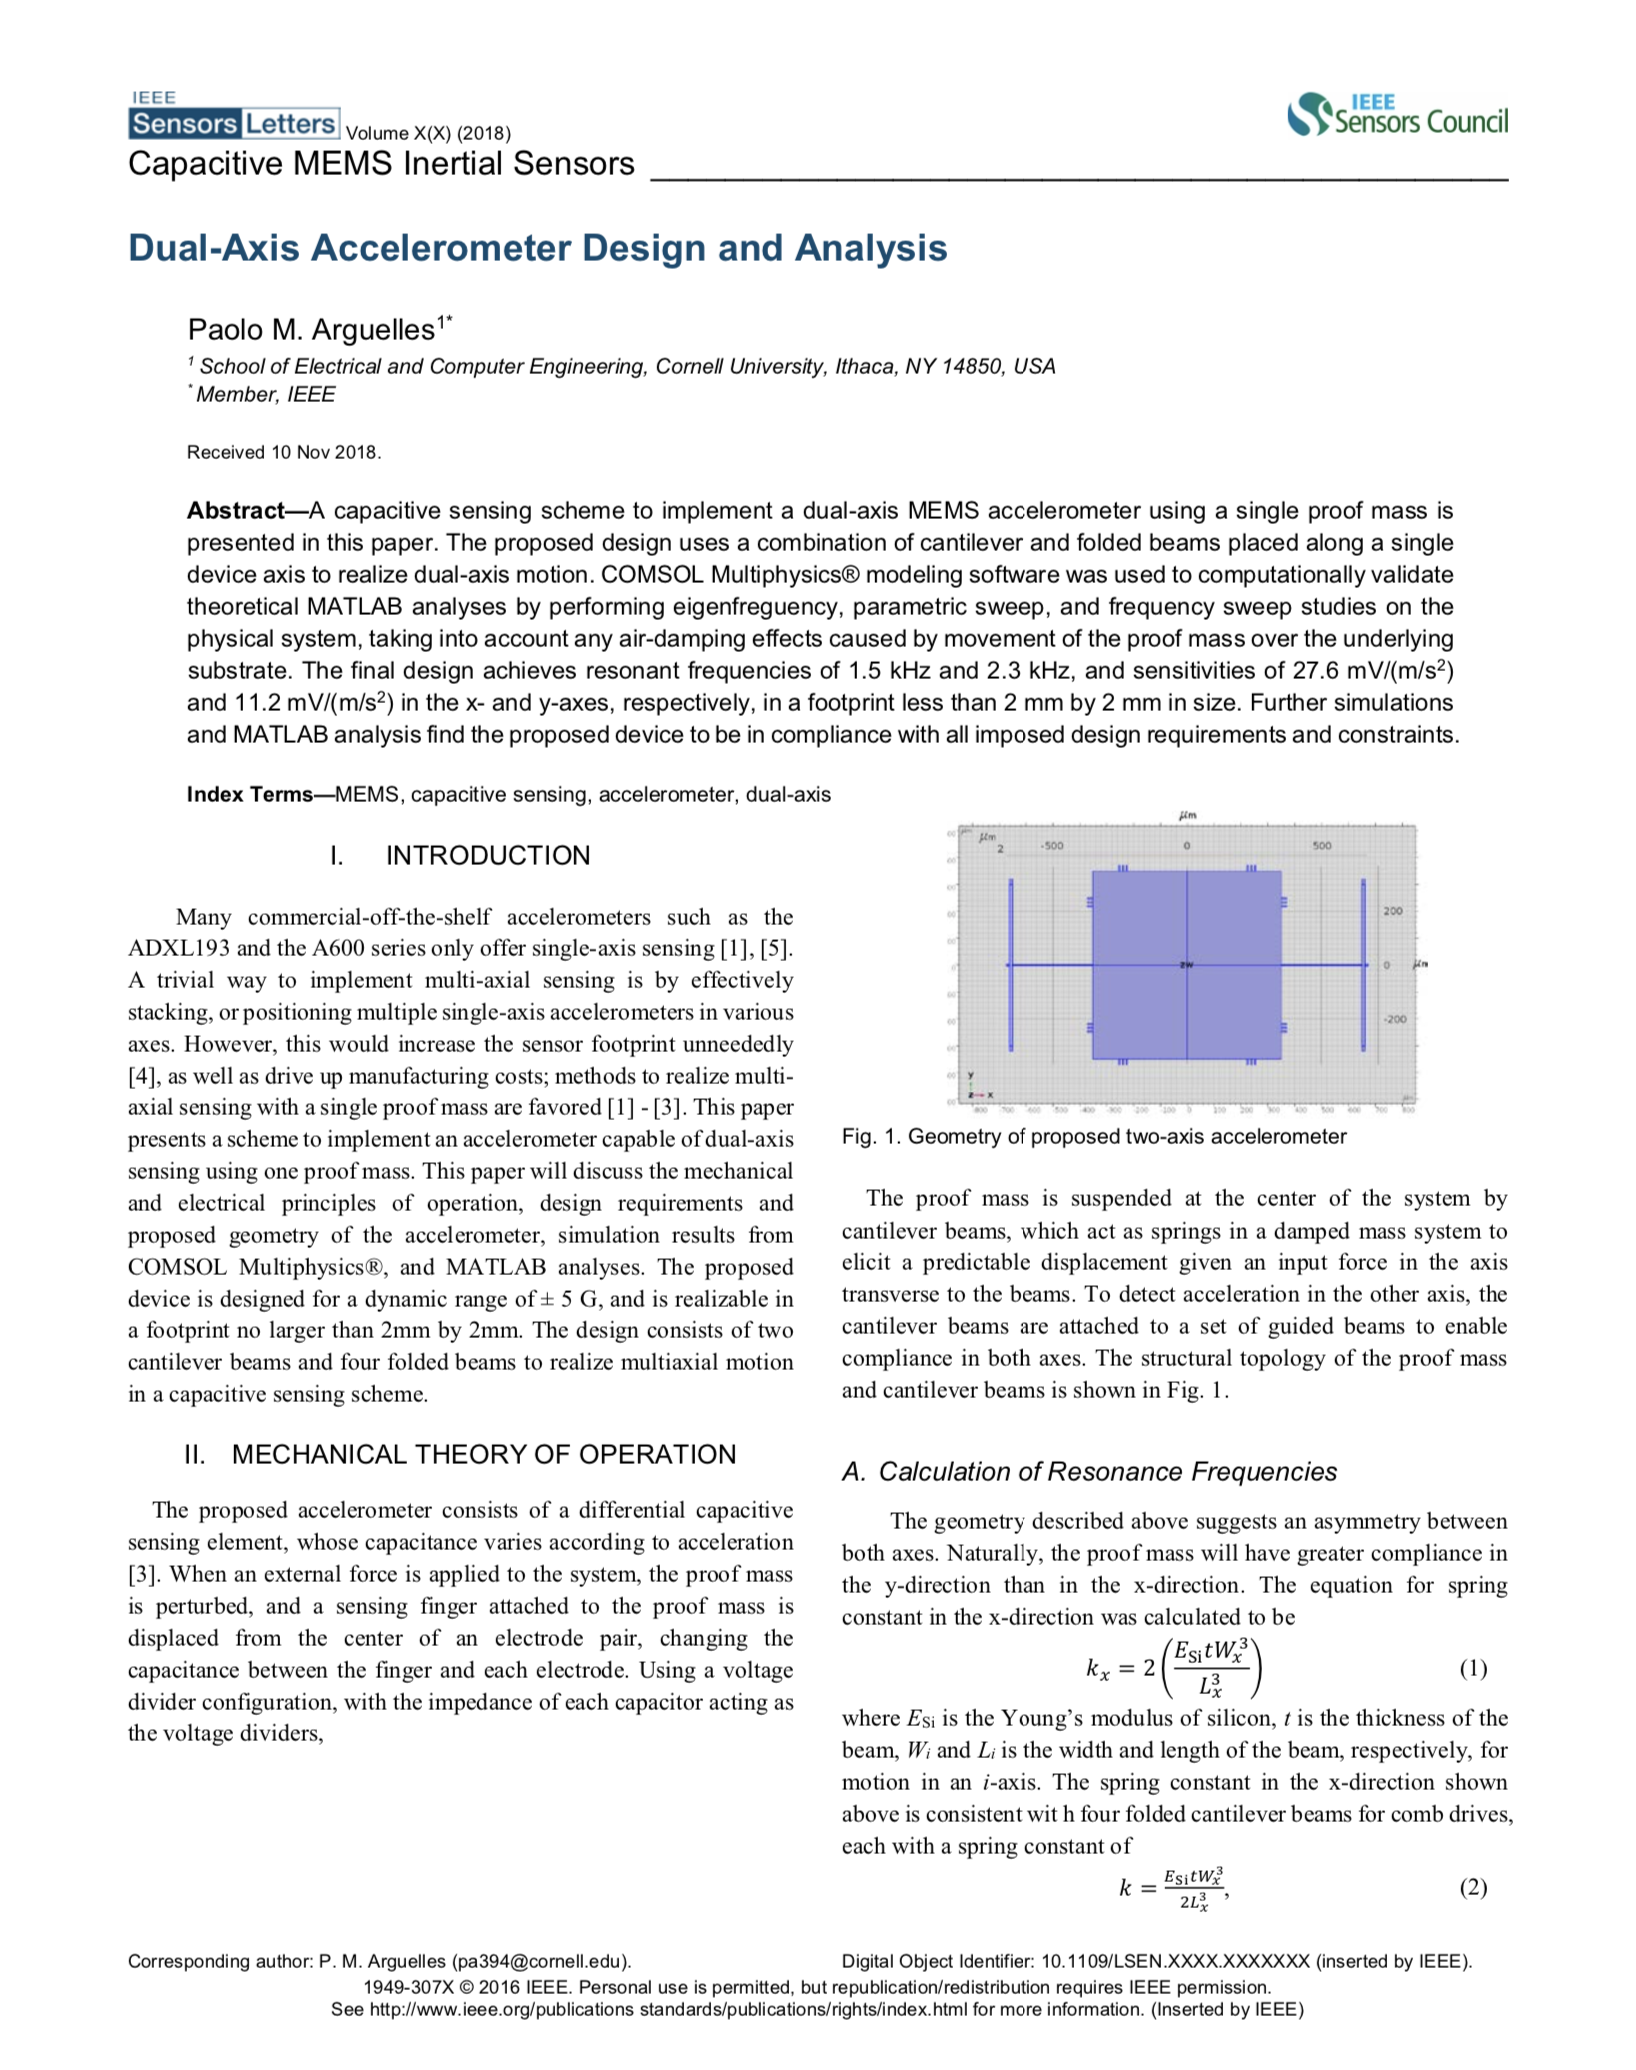
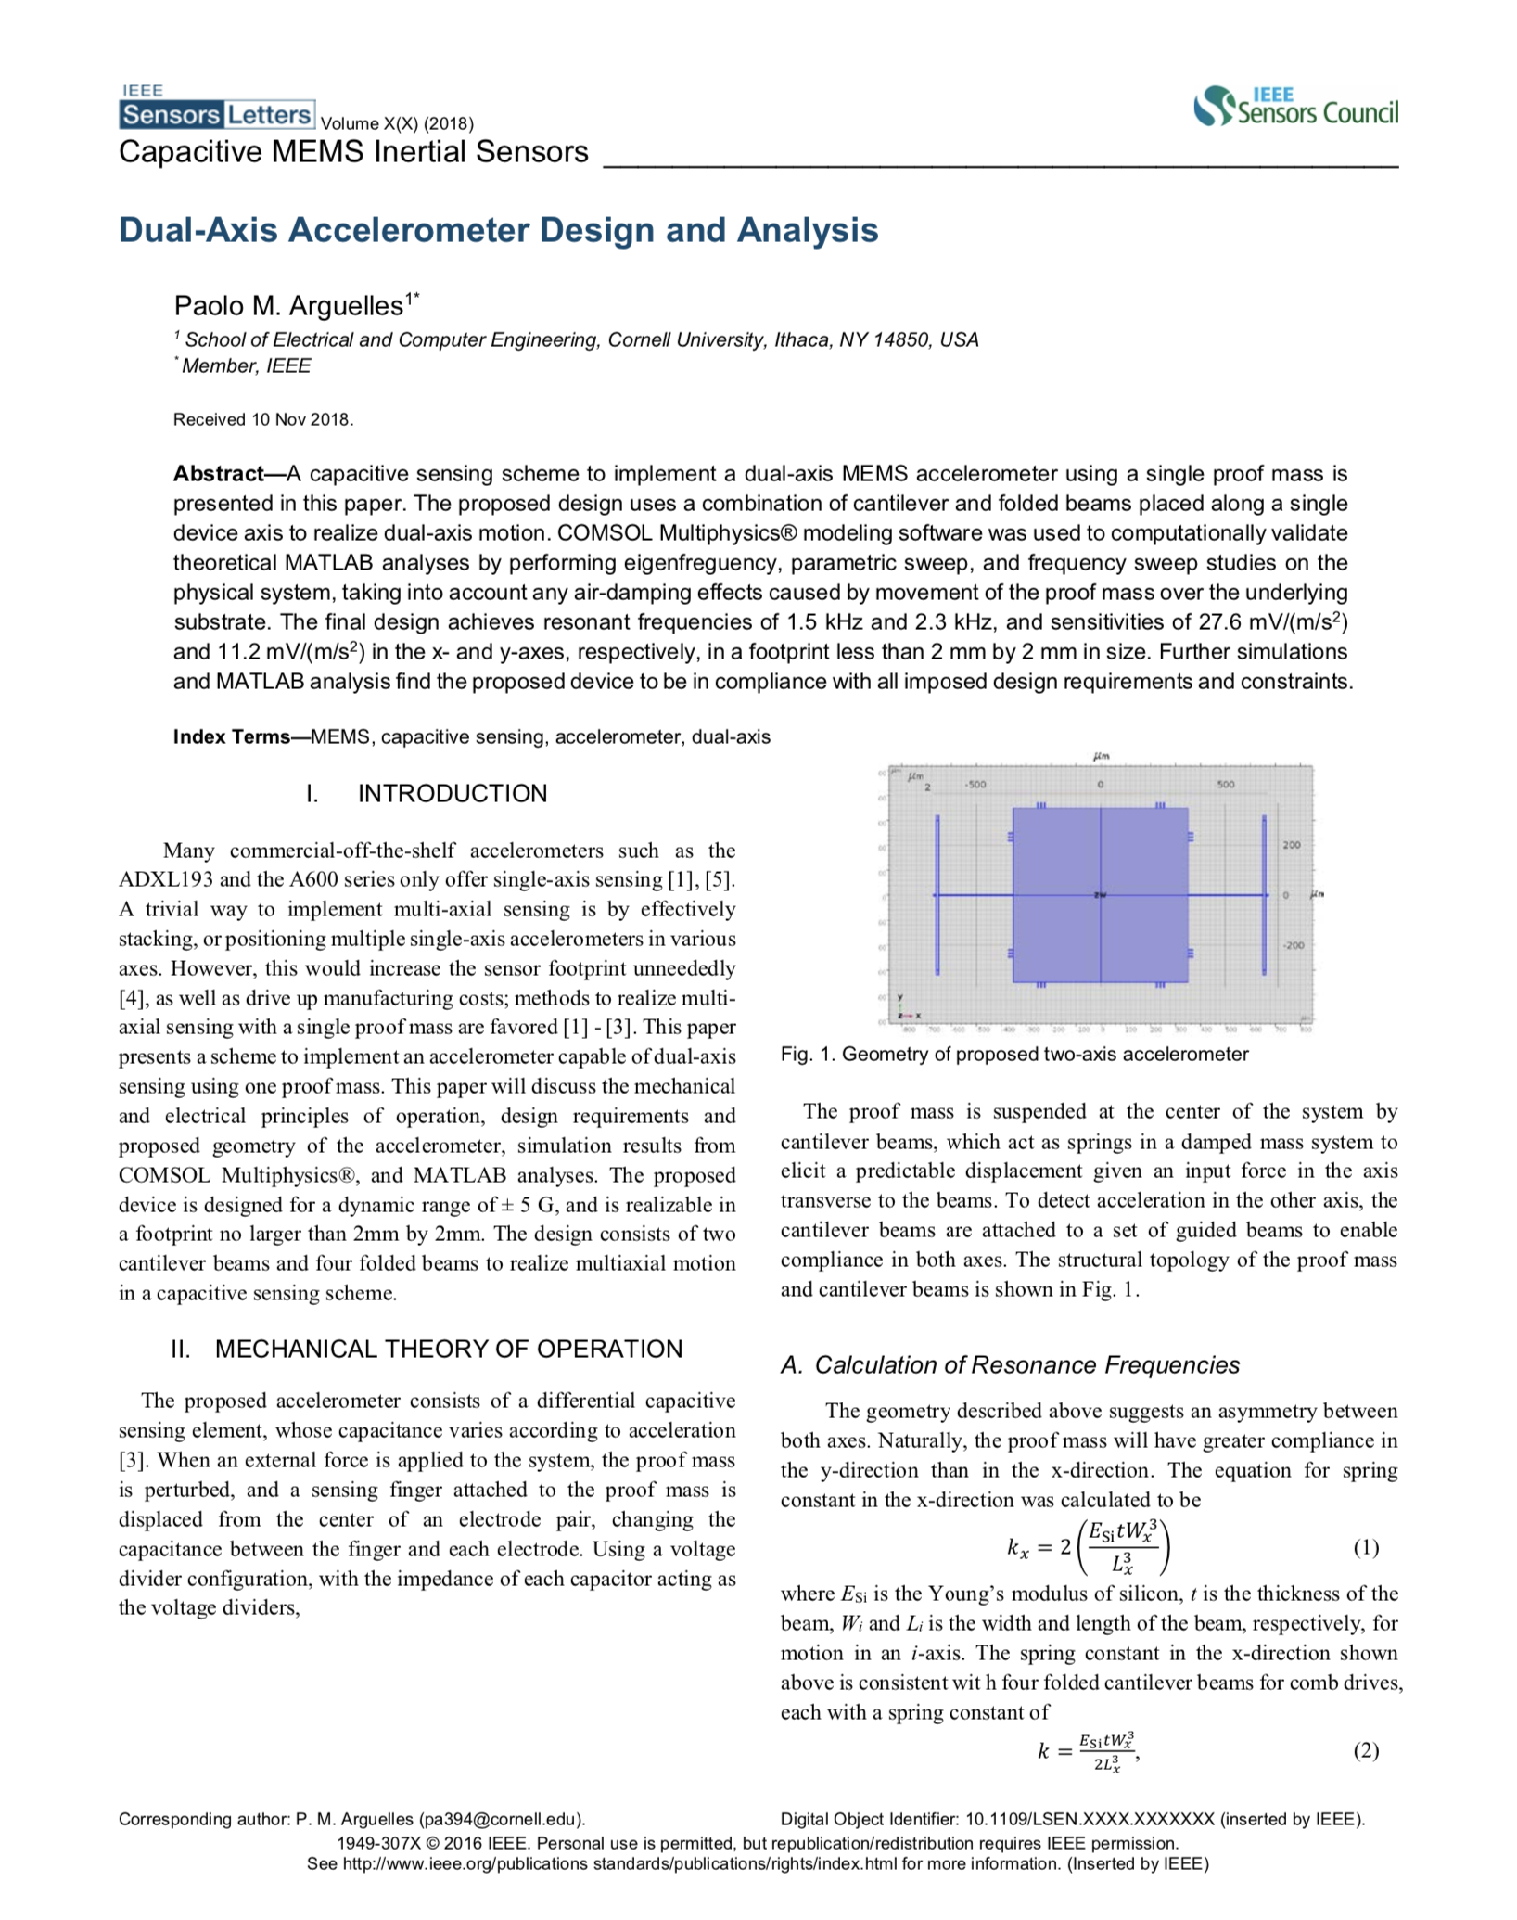
optimized images

diff --git a/website/resources/pics/imageOptimizer.py b/website/resources/pics/imageOptimizer.py
@@ -1,0 +1,40 @@
+import os, sys
+from PIL import Image
+
+def rmMeta(image):
+        data = list(image.getdata())
+        width, height = image.size
+        image_without_exif = Image.new(image.mode, (width, height))
+        image_without_exif.putdata(data)
+
+        bound_size = 1920
+        scale_factor = max(width, height)/bound_size
+        if scale_factor > 1:
+            newSize = (int(width/scale_factor), int(height/scale_factor))
+            imresize=image_without_exif.resize(newSize)
+            return imresize
+        else:
+            return image_without_exif
+
+def main():
+        imList = []
+        dirList = os.listdir()
+        dirName = os.getcwd()
+
+        for f in dirList:
+            filepath = dirName+"/"+f
+
+            if os.path.isfile(filepath):
+                try:
+                    image = Image.open(filepath)
+                    imRmMeta = rmMeta(image)
+                    imRmMeta.save(dirName+"/"+f)
+
+                except OSError:
+                    continue
+
+            print("Saved: " + f)
+
+
+if __name__ == "__main__":
+    main()
